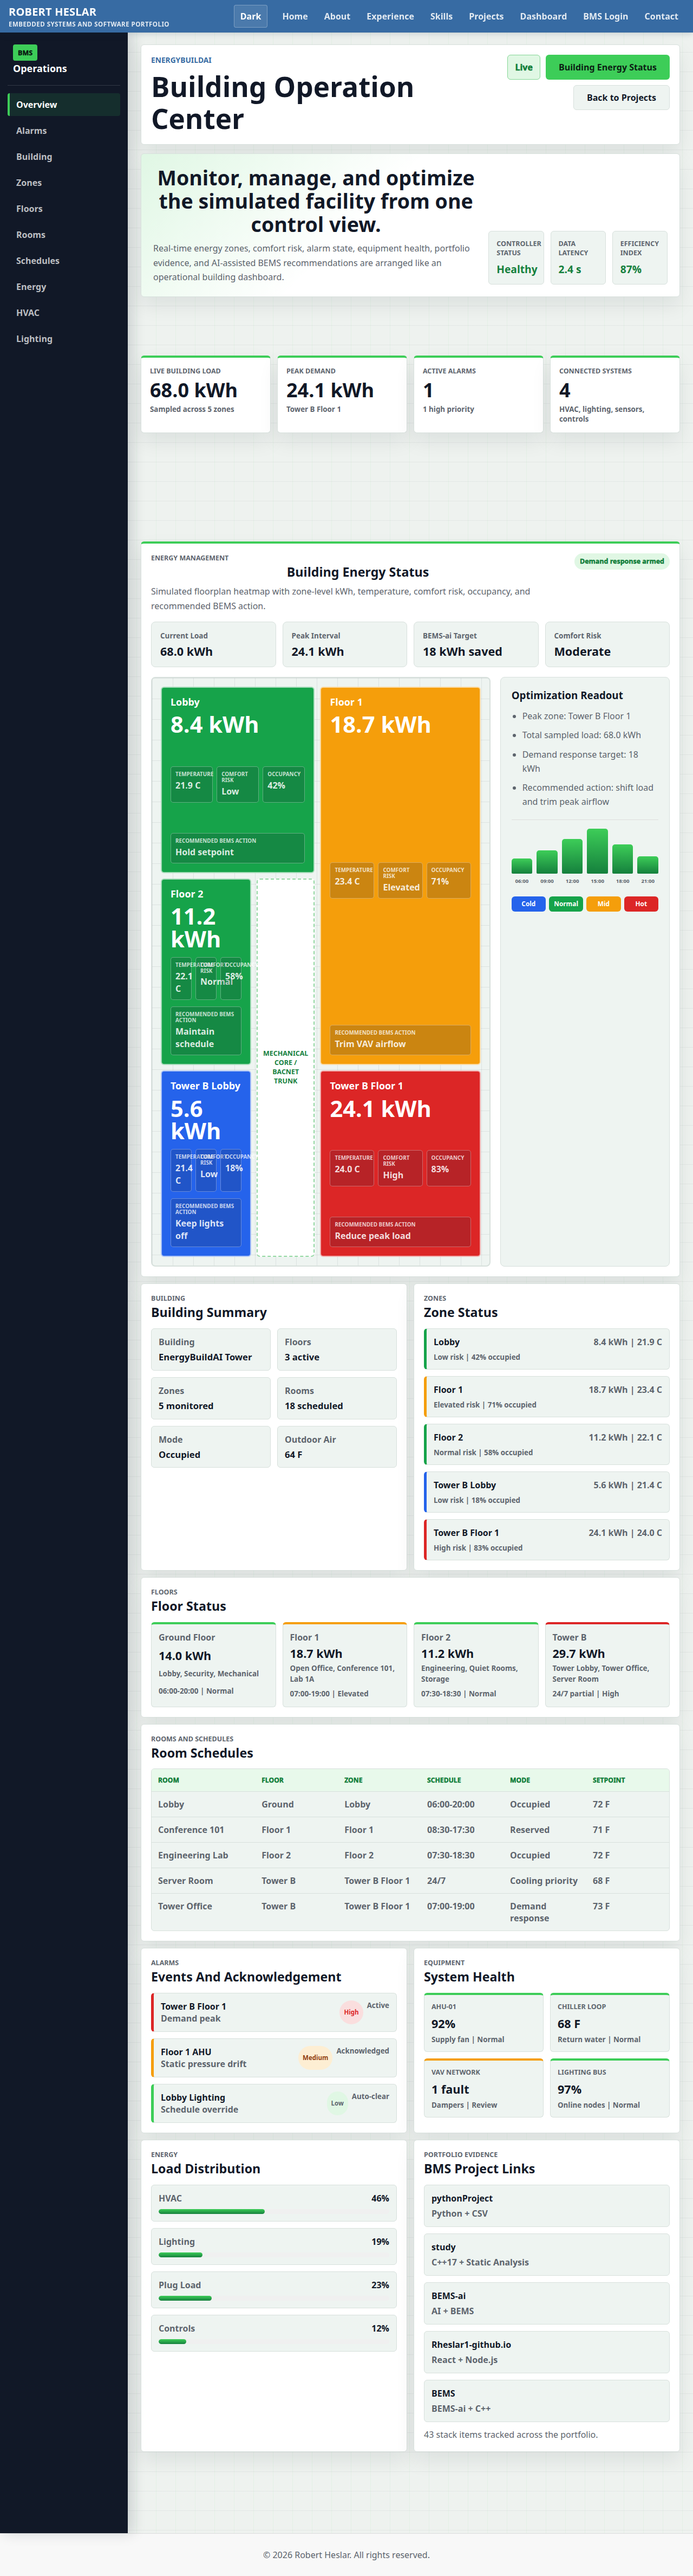
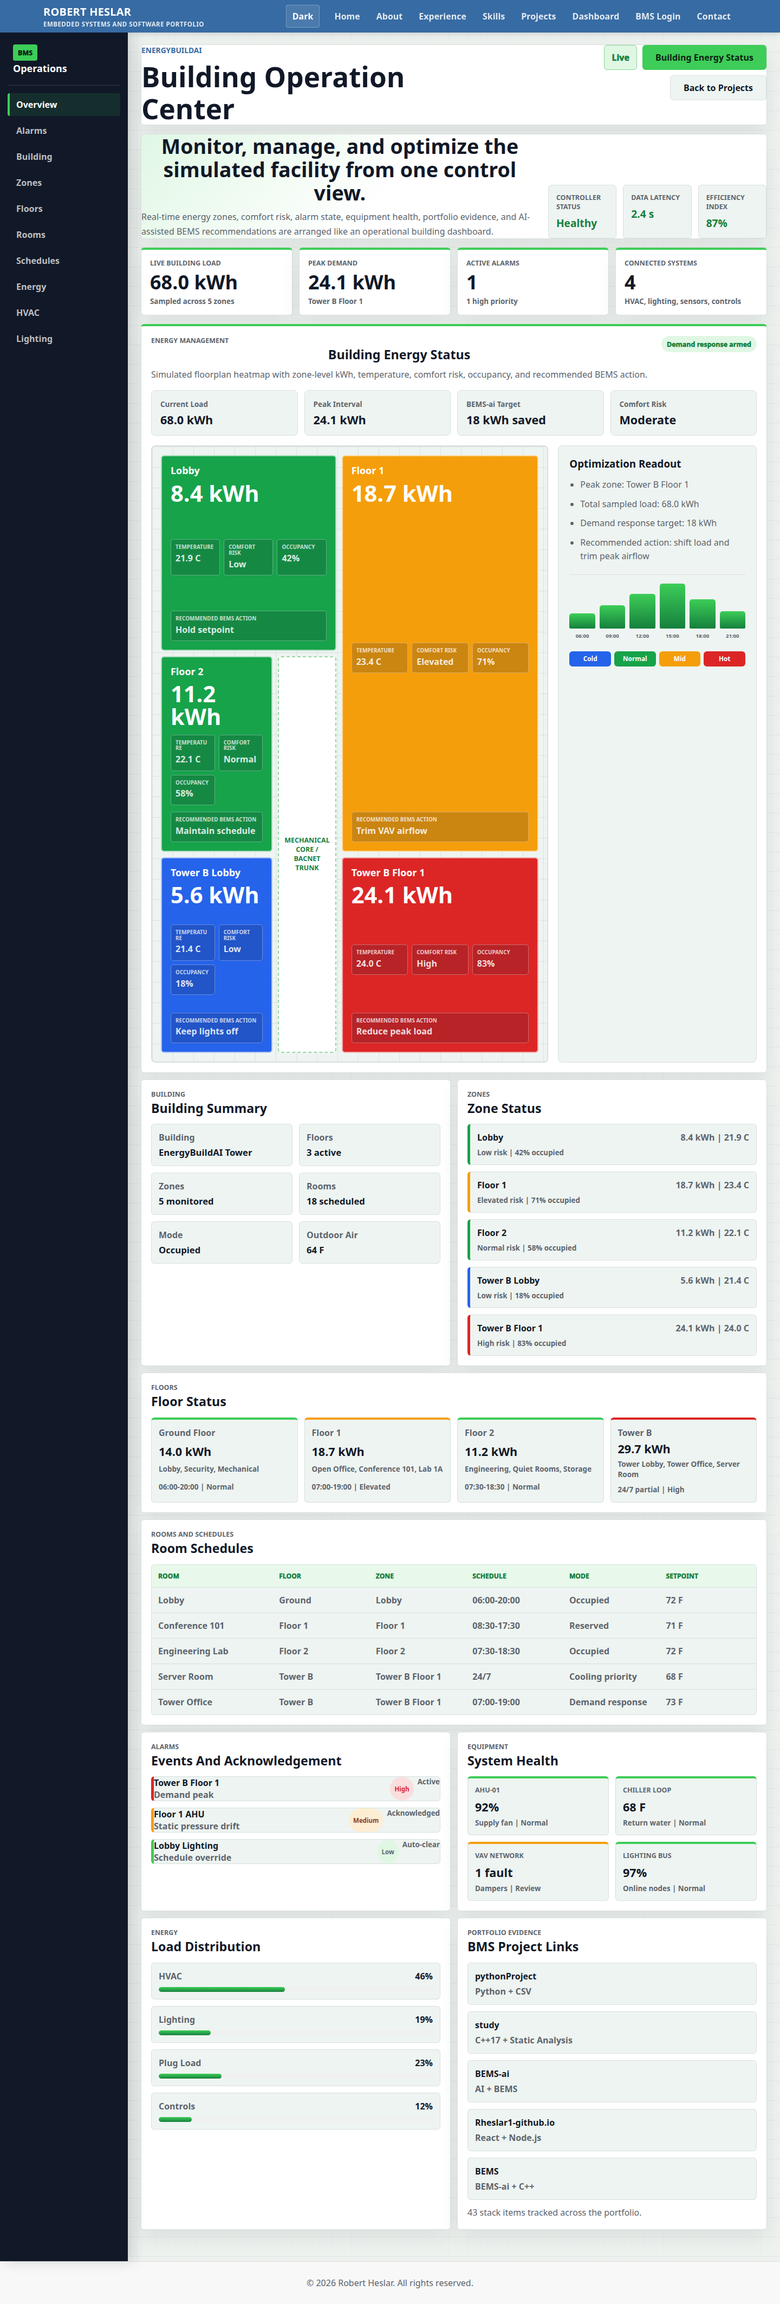
feat(energy-dashboard): improve grid responsiveness and layout
Update zone readings grid to use auto-fit columns, add overflow-wrap to
zone labels for better text handling, and remove section padding in the
dashboard to optimize space on mobile devices.

Changed region(s): [[0.0, 0.0, 1.0, 0.9934]]

diff --git a/src/App.css b/src/App.css
@@ -1912,7 +1912,7 @@ section h2 {
 
 .zone-readings {
   display: grid;
-  grid-template-columns: repeat(3, minmax(0, 1fr));
+  grid-template-columns: repeat(auto-fit, minmax(76px, 1fr));
   gap: 7px;
 }
 
@@ -1938,6 +1938,11 @@ section h2 {
 
 .zone-action span {
   display: block;
+}
+
+.zone-readings span,
+.zone-action span {
+  overflow-wrap: anywhere;
 }
 
 .energy-zone-cold {
@@ -2145,6 +2150,10 @@ section h2 {
     linear-gradient(180deg, rgba(17, 24, 39, 0.05) 1px, transparent 1px),
     #eef2ef;
   background-size: 36px 36px, 36px 36px, auto;
+}
+
+.ecostruxure-dashboard section {
+  padding: 0;
 }
 
 [data-theme='dark'] .ecostruxure-dashboard {
